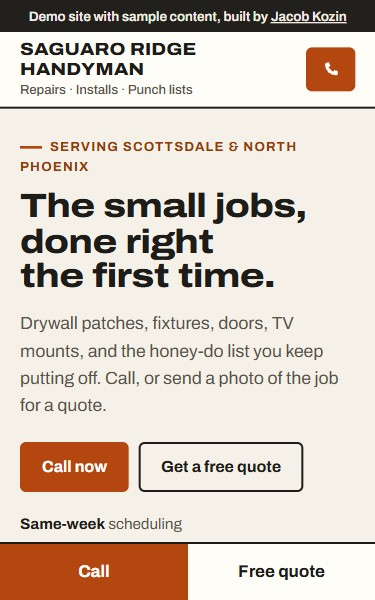
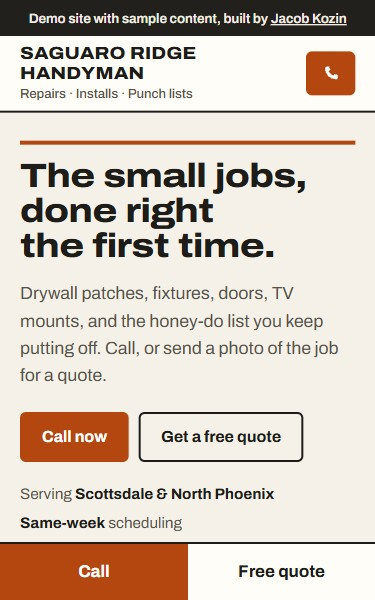
Demo polish: roomier labels, no eyebrow or side-accent boxes
- Handyman: service area moves from an uppercase eyebrow above the
  headline into the facts row; a rust rule sits over the headline
- Lights and handyman: more padding in photo credits, chips and the
  demo bar
- Barber and taqueria: demo-note boxes use a full hairline border
  instead of a thick accent on one side
- Handyman homepage thumbnail retaken

Changed region(s): [[0.0, 0.0, 1.0, 0.9], [0.44, 0.87, 0.4987, 0.9]]

diff --git a/demos/handyman/index.html b/demos/handyman/index.html
@@ -29,7 +29,7 @@
   :focus-visible{outline:3px solid var(--rust);outline-offset:3px;border-radius:3px}
   .on-dark :focus-visible{outline-color:var(--on-dark)}
 
-  .demo{background:var(--dark);color:var(--on-dark);text-align:center;font-size:.84rem;font-weight:600;padding:7px 12px;line-height:1.35}
+  .demo{background:var(--dark);color:var(--on-dark);text-align:center;font-size:.84rem;font-weight:600;padding:9px 16px;line-height:1.35}
 
   header{background:var(--card);border-bottom:2px solid var(--ink);position:sticky;top:0;z-index:5}
   header .wrap{display:flex;justify-content:space-between;align-items:center;min-height:var(--head);gap:14px;padding-top:8px;padding-bottom:8px}
@@ -48,9 +48,7 @@
   main{background:var(--paper)}
   .hero{padding:28px 0 40px}
   .hero-grid{display:grid;gap:28px}
-  .serving{font-weight:700;font-size:.82rem;letter-spacing:.09em;text-transform:uppercase;color:var(--rust-d);margin-bottom:12px}
-  .serving::before{content:"";display:inline-block;vertical-align:middle;width:22px;height:3px;background:var(--rust);margin-right:8px}
-  .hero h1{font-size:clamp(2.1rem,9vw,3.9rem);max-width:14ch}
+  .hero h1{font-size:clamp(2.1rem,9vw,3.9rem);max-width:14ch;padding-top:14px;border-top:4px solid var(--rust);display:inline-block}
   .hero .intro{font-size:1.1rem;color:var(--muted);margin:16px 0 22px;max-width:46ch}
   .row{display:flex;flex-wrap:wrap;gap:10px}
   .proof{display:flex;flex-wrap:wrap;gap:6px 18px;margin-top:20px;font-size:.95rem;color:var(--muted)}
@@ -58,7 +56,7 @@
 
   .photo{position:relative;margin-top:28px;border:2px solid var(--ink);border-radius:8px;overflow:hidden;height:190px}
   .photo img{width:100%;height:100%;object-fit:cover;object-position:30% 52%}
-  .photo span{position:absolute;right:8px;bottom:8px;font-size:.8rem;color:#fff;background:rgba(29,28,25,.72);padding:2px 8px;border-radius:4px}
+  .photo span{position:absolute;right:8px;bottom:8px;font-size:.82rem;color:#fff;background:rgba(29,28,25,.78);padding:6px 12px;border-radius:4px}
   .no-photo .photo{display:none}
 
   .quote{background:var(--card);border:2px solid var(--ink);border-radius:8px;padding:0 20px 20px;align-self:start}
@@ -92,7 +90,7 @@
 
   .area{display:grid;gap:40px}
   .chips{display:flex;flex-wrap:wrap;gap:8px}
-  .chips span{border:1.5px solid var(--ink);background:var(--card);padding:6px 13px;border-radius:4px;font-size:.96rem;font-weight:600}
+  .chips span{border:1.5px solid var(--ink);background:var(--card);padding:8px 16px;border-radius:4px;font-size:.96rem;font-weight:600}
   table{width:100%;border-collapse:collapse}
   th,td{padding:12px 0;border-bottom:1px solid var(--line);text-align:left;font-weight:400}
   th{font-weight:700}
@@ -157,7 +155,6 @@
 <main>
 <div class="hero"><div class="wrap hero-grid">
   <div>
-    <p class="serving" id="serving">Serving <span data-k="area">Scottsdale &amp; North Phoenix</span></p>
     <h1 data-k="headline">The small jobs, done right the first time.</h1>
     <p class="intro" data-k="intro">Drywall patches, fixtures, doors, TV mounts, and the honey-do list you keep putting off. Call, or send a photo of the job for a quote.</p>
     <div class="row">
@@ -165,6 +162,7 @@
       <a class="btn" href="#quote">Get a free quote</a>
     </div>
     <div class="proof">
+      <span id="serving">Serving <b data-k="area">Scottsdale &amp; North Phoenix</b></span>
       <span class="rating" hidden><b data-k="rating"></b> on Google</span>
       <span class="claim"><b>Same-week</b> scheduling</span>
       <span class="claim"><b>Price first</b>, before any work</span>

diff --git a/demos/lights/index.html b/demos/lights/index.html
@@ -31,7 +31,7 @@
   :focus-visible{outline:3px solid var(--gold);outline-offset:3px;border-radius:4px}
   .light :focus-visible{outline-color:var(--berry)}
 
-  .demo{background:var(--gold);color:var(--night);text-align:center;font-size:.82rem;font-weight:700;padding:7px 12px;line-height:1.35}
+  .demo{background:var(--gold);color:var(--night);text-align:center;font-size:.82rem;font-weight:700;padding:9px 16px;line-height:1.35}
 
   header{background:var(--night);color:var(--on-dark);position:sticky;top:0;z-index:5;border-bottom:1px solid var(--pine-line)}
   header .wrap{display:flex;justify-content:space-between;align-items:center;min-height:var(--head);gap:12px}
@@ -55,14 +55,14 @@
   .hero-photo{position:relative;height:210px;overflow:hidden;margin:0 -20px}
   .hero-photo img{width:100%;height:100%;object-fit:cover;object-position:50% 87%;transform:scale(1.25);transform-origin:46% 86%}
   .hero-photo::after{content:"";position:absolute;inset:0;background:linear-gradient(180deg,rgba(11,18,15,0) 55%,var(--night) 100%)}
-  .credit{position:absolute;right:10px;top:8px;z-index:1;font-size:.82rem;color:rgba(247,240,225,.9);background:rgba(11,18,15,.55);padding:2px 8px;border-radius:99px}
+  .credit{position:absolute;right:10px;top:8px;z-index:1;font-size:.82rem;color:rgba(247,240,225,.9);background:rgba(11,18,15,.55);padding:5px 12px;border-radius:99px}
   .hero-copy{padding:8px 0 44px}
   .hero h1{font-size:clamp(2.1rem,8.8vw,4rem);max-width:15ch}
   .hero h1::first-line{color:var(--gold)}
   .hero .intro{font-size:1.06rem;color:#E4DECD;margin:12px 0 20px;max-width:46ch}
   .row{display:flex;flex-wrap:wrap;gap:10px}
   .proof{display:flex;flex-wrap:wrap;gap:8px 10px;margin-top:22px;font-size:.93rem}
-  .proof span{border:1px solid var(--pine-line);background:var(--pine);border-radius:99px;padding:5px 12px;color:var(--on-dark-muted)}
+  .proof span{border:1px solid var(--pine-line);background:var(--pine);border-radius:99px;padding:8px 14px;color:var(--on-dark-muted)}
   .proof b{color:var(--on-dark);font-weight:700}
 
   section{padding:60px 0}
@@ -112,7 +112,7 @@
   .split .wrap{border-top:1px solid var(--line);padding-top:48px}
   .area{display:grid;gap:36px}
   .chips{display:flex;flex-wrap:wrap;gap:8px}
-  .chips span{border:1.5px solid var(--ink);padding:6px 14px;border-radius:99px;font-size:.95rem;font-weight:600;background:var(--card)}
+  .chips span{border:1.5px solid var(--ink);padding:8px 16px;border-radius:99px;font-size:.95rem;font-weight:600;background:var(--card)}
   table{width:100%;border-collapse:collapse}
   th,td{padding:12px 0;border-bottom:1px solid var(--line);text-align:left;font-weight:400}
   tr:first-child th,tr:first-child td{border-top:2px solid var(--ink)}

diff --git a/demos/taqueria/index.html b/demos/taqueria/index.html
@@ -79,7 +79,7 @@
   .order-panel{background:var(--green);color:var(--on-green);border-radius:16px;padding:26px 22px;margin-top:40px}
   .order-panel h2{font-size:clamp(1.9rem,6.5vw,2.6rem);margin-bottom:8px}
   .order-panel>p{color:#E6EFE8;max-width:52ch}
-  .order-panel .note{margin:16px 0 20px;padding:12px 14px;background:rgba(0,0,0,.2);border-left:4px solid var(--gold);border-radius:0 8px 8px 0;color:var(--on-green);font-size:.98rem;max-width:60ch}
+  .order-panel .note{margin:16px 0 20px;padding:14px 16px;background:rgba(0,0,0,.22);border:1px solid var(--green-line);border-radius:8px;color:var(--on-green);font-size:.98rem;max-width:60ch}
   .order-panel .note b{display:block;font-size:.82rem;letter-spacing:.1em;text-transform:uppercase;color:var(--gold);margin-bottom:2px}
 
   .visit{background:var(--card);border-top:1px solid var(--line)}

diff --git a/demos/barber/index.html b/demos/barber/index.html
@@ -92,7 +92,7 @@
   .panel{background:var(--card);border:2px solid var(--navy);border-radius:6px;padding:22px 20px}
   .panel h3{font-size:2.3rem;margin-bottom:8px}
   .panel p{color:var(--muted)}
-  .panel .note{margin:14px 0 18px;padding:12px 14px;background:var(--cream);border-left:4px solid var(--red);color:var(--ink);font-size:.98rem}
+  .panel .note{margin:14px 0 18px;padding:14px 16px;background:var(--cream);border:1px solid var(--line);border-radius:4px;color:var(--ink);font-size:.98rem}
   .panel .note b{display:block;font-size:.82rem;letter-spacing:.1em;text-transform:uppercase;color:var(--red);margin-bottom:2px}
   .find{margin-top:28px;padding-top:22px;border-top:1px solid var(--line)}
   .find b{display:block;font-size:1.12rem}
